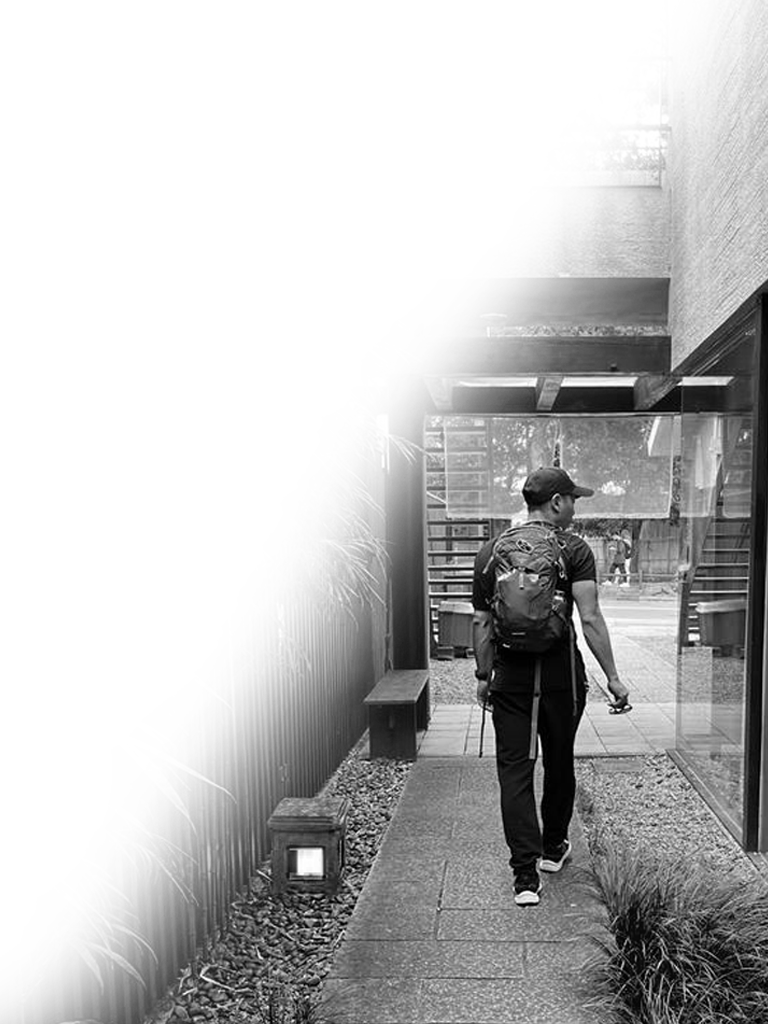
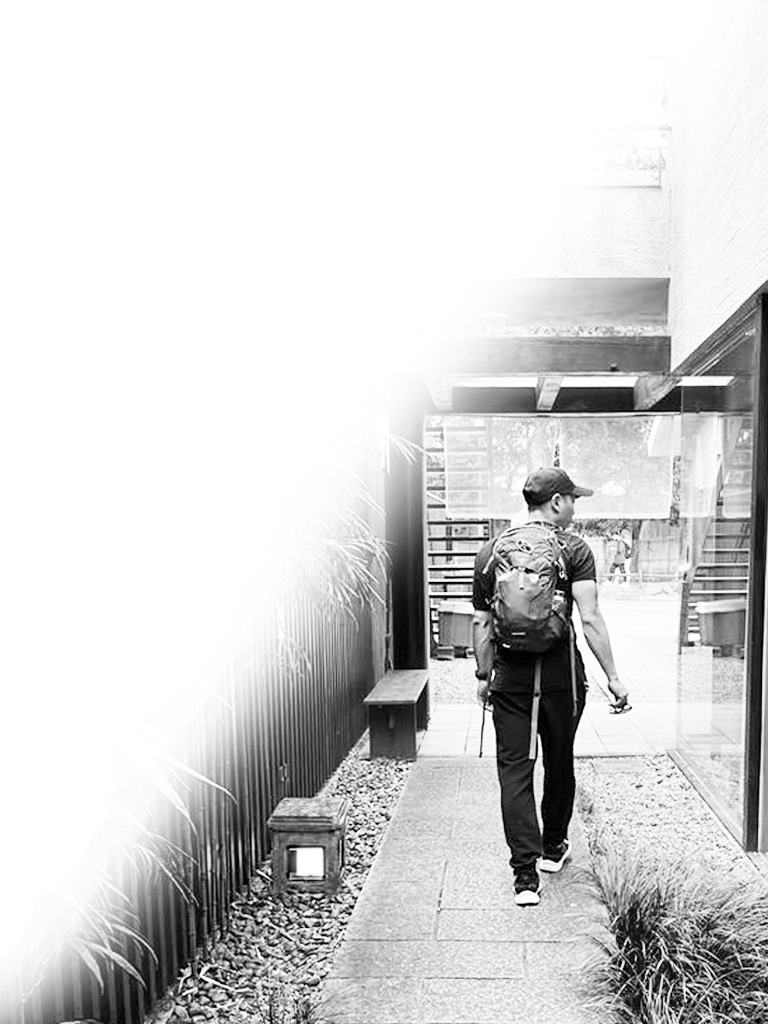
Update about ussection and lightening up image for better text readability.

diff --git a/index.html b/index.html
@@ -99,7 +99,7 @@
 					   				<div class="slider-text-inner js-fullheight">
 					   					<div class="desc">
 						   					<h1>Hi! <br>I'm Danny</h1>
-						   					<h2>Software Engineer by Day / Creative by Night</h2>
+						   					<h2>Creative Engineer: Code, Create, Conquer</h2>
 											</div>
 					   				</div>
 					   			</div>
@@ -135,10 +135,17 @@
 									<div class="about-desc">
 										<span class="heading-meta">About Us</span>
 										<h2 class="colorlib-heading">Who Am I?</h2>
-										<!--<p><strong>Hi I'm Jackson Ford</strong> On her way she met a copy. The copy warned the Little Blind Text, that where it came from it would have been rewritten a thousand times and everything that was left from its origin would be the word "and" and the Little Blind Text should turn around and return to its own, safe country.</p>
-										<p>Even the all-powerful Pointing has no control about the blind texts it is an almost unorthographic life One day however a small line of blind text by the name of Lorem Ipsum decided to leave for the far World of Grammar.</p>-->
+										
+										<p>
+											<strong>Hello, I'm Danny!</strong><br>
+											I'm a passionate software engineer with a love for creativity and innovation.
+											By day, I specialize in crafting elegant solutions to complex technological challenges.
+											Beyond coding, I'm an avid explorer. Whether I'm diving into 3D printing projects,
+											capturing moments through video creation, or perfecting my gymnastics skills,
+											I'm always pushing the boundaries of what's possible. Join me on this journey
+											of technology and creativity.
+										</p>
 
-										<p><strong>Hello, I'm Danny Luu</strong></p>
 									</div>
 								</div>
 							</div>
